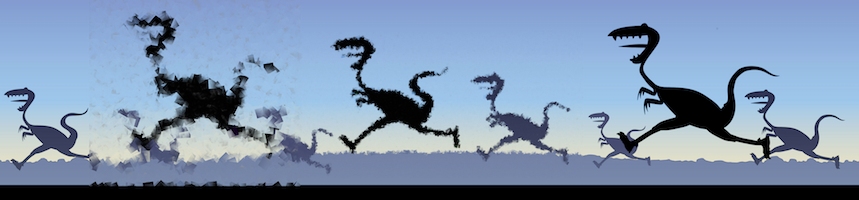
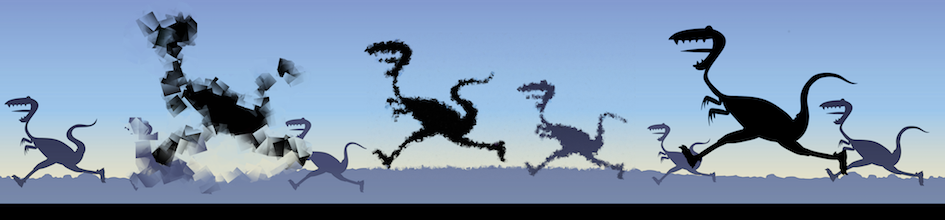
added a footer image and adjusted the top image

diff --git a/themes/hugo_theme_robust_wordadoplicus/static/css/custom.css b/themes/hugo_theme_robust_wordadoplicus/static/css/custom.css
@@ -20,3 +20,7 @@ header .both-titles{
   background-color: white;
   opacity: 0.9;
 }
+
+footer.site  {
+    background: transparent url(/images/background-bottom.png) 100% 100% repeat-x fixed;
+}
